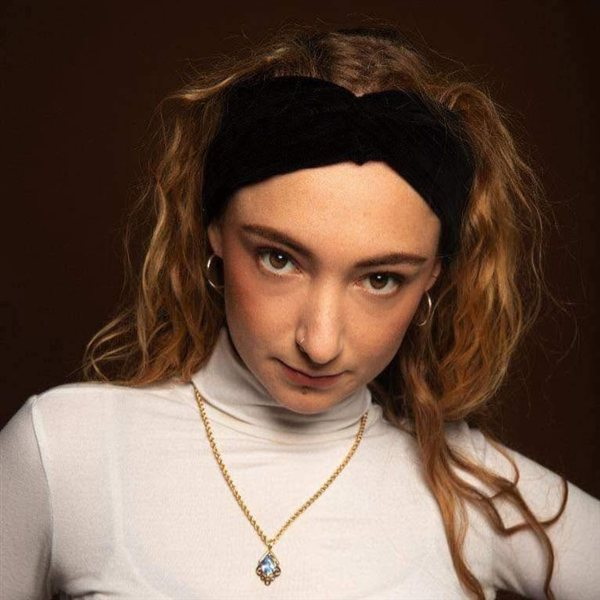
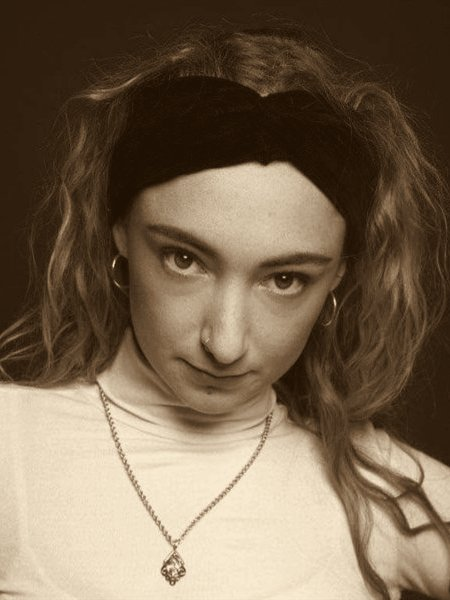
update

diff --git a/grote-show/index.html b/grote-show/index.html
@@ -86,8 +86,9 @@
 </div></div></div>
 
 <div class="page" data-key="sarco-plaat" data-label="Voor het begin"><div class="pi"><div class="content">
-  <figure class="plate empty grow" data-slot="sarco">
-    <div class="frame"><img alt=""><div class="wanted"><b>Foto gezocht</b>Het jeugdatelier Sarco, aan het oude kerkhof</div></div>
+  <figure class="plate grow" data-slot="sarco">
+    <div class="frame"><img src="img/frank.jpg" alt="Twee mannen aan de toog van het café"></div>
+    <figcaption>Gratis foto van jongere Frank Sinitor</figcaption>
   </figure>
 </div></div></div>
 
@@ -150,8 +151,8 @@
 </div></div></div>
 
 <div class="page" data-key="kermis-plaat" data-label="Jaren '80"><div class="pi"><div class="content">
-  <figure class="plate empty grow" data-slot="kermis80">
-    <div class="frame"><img alt=""><div class="wanted"><b>Affiche gezocht</b>Een kermisaffiche uit de jaren '80</div></div>
+  <figure class="plate contain grow" data-slot="kermis80">
+    <div class="frame"><img src="img/sjanterick.jpg" alt="Affiche Oemtata vzw presenteert Ierse folk: Sjanterick, vrijdag 23 december"></div>
   </figure>
 </div></div></div>
 
@@ -256,7 +257,7 @@
 <div class="page" data-key="erfpacht" data-label="2018"><div class="pi"><div class="content">
   <div class="year">2018</div>
   <h2>Getekend en <i>verzegeld</i></h2>
-  <p style="text-align:center">De erfpacht is rond. Het huis blijft van ons allemaal.</p>
+  <p style="text-align:center">De erfpacht is rond.</p>
   <figure class="plate contain grow" data-slot="werfnocturne"><div class="frame"><img src="img/werfnocturne.jpg" alt="Affiche Lente in den Oemtata met werf-nocturne"></div></figure>
 </div></div></div>
 
@@ -302,12 +303,12 @@
   <div class="orn">❦</div>
   <div class="team">
     <div class="member"><figure class="plate oval" data-slot="vzw-sven"><div class="frame"><img src="img/sven.jpg" alt="Sven"><div class="wanted"><b>Foto</b></div></div></figure><div class="name">Sven</div></div>
-    <div class="member"><figure class="plate oval empty" data-slot="vzw-frank"><div class="frame"><img alt=""><div class="wanted"><b>Foto</b></div></div></figure><div class="name">Frank</div></div>
+    <div class="member"><figure class="plate oval" data-slot="vzw-frank"><div class="frame"><img src="img/vzw_frank.jpg" alt="Frank"><div class="wanted"><b>Foto</b></div></div></figure><div class="name">Frank</div></div>
     <div class="member"><figure class="plate oval" data-slot="vzw-leonie"><div class="frame"><img src="img/leonie.jpg" alt="Leonie"><div class="wanted"><b>Foto</b></div></div></figure><div class="name">Leonie</div></div>
     <div class="member"><figure class="plate oval" data-slot="vzw-joey"><div class="frame"><img src="img/joey.jpg" alt="Joey"><div class="wanted"><b>Foto</b></div></div></figure><div class="name">Joey</div></div>
     <div class="member"><figure class="plate oval" data-slot="vzw-heiko"><div class="frame"><img src="img/heiko.jpg" alt="Heiko"><div class="wanted"><b>Foto</b></div></div></figure><div class="name">Heiko</div></div>
     <div class="member"><figure class="plate oval" data-slot="vzw-jari"><div class="frame"><img src="img/jari.jpg" alt="Jari"><div class="wanted"><b>Foto</b></div></div></figure><div class="name">Jari</div></div>
-    <div class="member"><figure class="plate oval empty" data-slot="vzw-jannes"><div class="frame"><img alt=""><div class="wanted"><b>Foto</b></div></div></figure><div class="name">Jannes</div></div>
+    <div class="member"><figure class="plate oval" data-slot="vzw-jannes"><div class="frame"><img src="img/jannes.jpg" alt="Jannes"><div class="wanted"><b>Foto</b></div></div></figure><div class="name">Jannes</div></div>
     <div class="member"><figure class="plate oval" data-slot="vzw-shayna"><div class="frame"><img src="img/shayna.jpg" alt="Shayna"><div class="wanted"><b>Foto</b></div></div></figure><div class="name">Shayna</div></div>
   </div>
 </div></div></div>
@@ -373,7 +374,7 @@
 <div class="page" data-key="fin-events" data-label="Oplossingen"><div class="pi"><div class="content">
   <h2>Kleine kosten, <i>mooie winst</i></h2>
   <div class="orn">❦</div>
-  <div class="notes"><h3>Kleine events</h3>Belangrijk: kleine events met een minimum aan uitgaven, zoals Pompoenta.</div>
+  <div class="notes"><h3>Kleine events</h3>Belangrijk: kleine events met een minimum aan uitgaven, zoals Pompoemta.</div>
   <div class="notes"><h3>Rock Earthfield</h3>Heeft alles in huis om een mooie winst op te tekenen. Nog net iets meer de kosten onder controle krijgen.</div>
 </div></div></div>
 

diff --git a/grote-show/readme.md b/grote-show/readme.md
@@ -27,7 +27,7 @@ Een foto toevoegen in een lege lijst
   3. Haal het woord "empty" weg uit class="plate oval empty"
   4. Vervang <img alt=""> door <img src="img/sven.jpg" alt="Sven">
 
-  Lege lijsten: sarco, kermis80, vzw-frank, vzw-jannes.
+  Lege lijsten: geen meer.
 
 Tekst aanpassen
   Open index.html in een teksteditor (bv. Kladblok, TextEdit of VS Code) en pas
